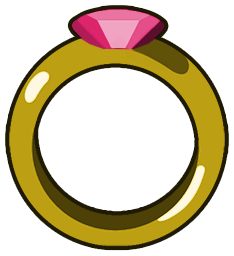
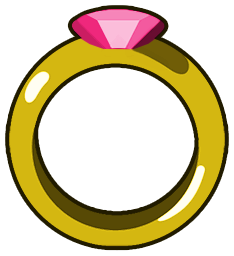
Corregge l'icona Sette col file giusto (v11.95)
Il file di Sette caricato in v11.94 era sbagliato; sostituito con quello corretto
fornito dall'utente (canvas 234x256 identico): icons/Sette.webp rigenerata in
WebP q90 visually-lossless (diff media 1.22) e icons_png/Sette.png aggiornato.
Nessuna modifica a CSS/allineamenti. Render check: 0 icone rotte, 0 errori JS.

Claude-Session: https://claude.ai/code/session_01VTTS1HDTd6o8vdQkkFZC4u

diff --git a/arda/top/dati.js b/arda/top/dati.js
@@ -1,4 +1,4 @@
-var datiVersion = "11.94";
+var datiVersion = "11.95";
 var cardColors = {"fam":{"noldo":{"dark":"#5b95e1","light":"#1d61b9"},"sinda":{"dark":"#2bb8a6","light":"#159e8f"},"maia":{"dark":"#6ad276","light":"#2fa73c"},"rohir":{"dark":"#9fb641","light":"#8a9a2a"},"vala":{"dark":"#ff3d9a","light":"#d60067"},"orc":{"dark":"#a06be0","light":"#7a3fce"},"beast":{"dark":"#d5a568","light":"#aa732c"},"man":{"dark":"#9098a8","light":"#6f7482"},"half-elf":{"dark":"#3dd8ff","light":"#00abd6"},"numenorean":{"dark":"#eb5151","light":"#c41212"},"hobbit":{"dark":"#ff9b3d","light":"#d66700"},"dwarf":{"dark":"#ffef3d","light":"#d6c400"},"shadow":{"dark":"#b88493","light":"#894d5f"},"vanya":{"dark":"#3df2ff","light":"#00c8d6"},"adan":{"dark":"#ee9b4e","light":"#c8680e"}},"map":{"type-noldo":"noldo","type-half-elf":"half-elf","type-sinda":"sinda","type-teler":"sinda","type-vanya":"vanya","type-falma":"sinda","type-eagle":"sinda","type-maia":"maia","type-ent":"maia","type-spirit":"maia","type-rohir":"rohir","type-northman":"rohir","type-eotheod":"rohir","type-hobbit":"hobbit","type-dwarf":"dwarf","type-hador":"adan","type-beor":"adan","type-haleth":"adan","type-dunadan":"numenorean","type-numenorean":"numenorean","type-dragon":"shadow","type-wolf":"shadow","type-balrog":"shadow","type-spider":"shadow","type-vala":"vala","type-valie":"vala","type-orc":"orc","type-shadow":"orc","type-mystery":"orc","type-morgoth":"orc","type-troll":"orc","type-darkmaia":"orc","type-beast":"beast","type-fallback":"man"}};
 var badgeAdjust = {"aratar":{"ml":0,"mr":0,"ny":0,"sc":1},"calaquende":{"ml":-0.075,"mr":-0.06,"ny":-0.04,"sc":1},"silmaril":{"ml":-0.05,"mr":0,"ny":-0.02,"sc":1},"incarnazione":{"ml":-0.05,"mr":0,"ny":-0.075,"sc":0.98},"helcaraxe":{"ml":-0.1,"mr":-0.11,"ny":0,"sc":1},"morgoth":{"ml":-0.015,"mr":-0.06,"ny":0,"sc":1},"guerradira":{"ml":-0.05,"mr":0,"ny":0,"sc":0.97},"suicidio":{"ml":-0.05,"mr":0,"ny":-0.03,"sc":1},"fellowship":{"ml":-0.03,"mr":-0.095,"ny":0,"sc":1},"istari":{"ml":-0.05,"mr":-0.05,"ny":0,"sc":1},"survivor":{"ml":0,"mr":0,"ny":0,"sc":1},"navi":{"ml":-0.05,"mr":-0.015,"ny":-0.065,"sc":1},"drago":{"ml":-0.05,"mr":0,"ny":-0.05,"sc":1},"balrog":{"ml":-0.06,"mr":0,"ny":-0.025,"sc":0.98},"king_std":{"ml":-0.056,"mr":-0.03,"ny":-0.095,"sc":1},"king_high":{"ml":-0.056,"mr":-0.03,"ny":-0.095,"sc":1},"king_high_now":{"ml":-0.056,"mr":0,"ny":-0.06,"sc":1},"onering":{"ml":-0.04,"mr":-0.04,"ny":-0.02,"sc":0.75},"ringelven":{"ml":-0.02,"mr":-0.02,"ny":-0.09,"sc":0.94},"ringdm":{"ml":-0.02,"mr":-0.02,"ny":-0.03,"sc":0.82},"male":{"ml":-0.04,"mr":0,"ny":-0.07,"sc":1},"female":{"ml":-0.04,"mr":0,"ny":0.195,"sc":1}};
 var dati = [

diff --git a/arda/top/index.html b/arda/top/index.html
@@ -2266,7 +2266,7 @@ var FEATURES = { genderLegendPill: false, langSwitchMobile: false, oneRing: 'A',
 <body>
 <header>
   <div class="brand-corner">
-    <span class="version-badge">v11.94</span><a class="home-link" href="https://roccobot.me" target="_blank" rel="noopener">roccobot.me</a>
+    <span class="version-badge">v11.95</span><a class="home-link" href="https://roccobot.me" target="_blank" rel="noopener">roccobot.me</a>
   </div>
   <button class="lang-switch" id="lang-switch" aria-label="Switch language"><span class="ls-face">EN</span><span class="ls-measure" aria-hidden="true">EN</span></button>
   <div class="crest" id="crest">Roccobot presenta</div>